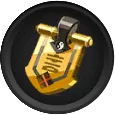
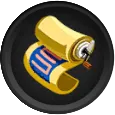
Add new strategies and Mobile gear. Add migration

diff --git a/src/lib/features/strategy/strategySlice.ts b/src/lib/features/strategy/strategySlice.ts
@@ -3,6 +3,7 @@ import type { PayloadAction } from '@reduxjs/toolkit';
 import { createSlice } from '@reduxjs/toolkit';
 
 interface CardState {
+    [CardTypes.mobile]: number;
     [CardTypes.ultimate]: number;
     [CardTypes.anomaly]: number;
     [CardTypes.dexterity]: number;
@@ -14,26 +15,37 @@ interface GearState {
     badges: boolean[];
 }
 
+interface StrategyData {
+    gear: GearState;
+    cards: CardState;
+}
+
 // gear and card state stored per strategy, in other words "save slots"
 export interface StrategyState {
     currentStrategy: number;
-    data: { gear: GearState; cards: CardState }[];
+    data: StrategyData[];
 }
 
-const initialState: StrategyState = {
-    currentStrategy: 1,
-    data: Array.from({ length: 9 }, () => ({
+export const getInitialStrategyState = () => {
+    return {
         gear: {
-            active: [false, false, false, false, false, false, false, false],
-            badges: [false, false, false, false, false, false, false, false],
+            active: Array.from({ length: 10 }, () => false),
+            badges: Array.from({ length: 10 }, () => false),
+            // badges: [false, false, false, false, false, false, false, false],
         },
         cards: {
+            [CardTypes.mobile]: 0,
             [CardTypes.ultimate]: 0,
             [CardTypes.anomaly]: 0,
             [CardTypes.dexterity]: 0,
             [CardTypes.adversity]: 0,
         },
-    })),
+    };
+};
+
+const initialState: StrategyState = {
+    currentStrategy: 1,
+    data: Array.from({ length: 12 }, getInitialStrategyState),
 };
 
 function getCurrentData(state: StrategyState) {
@@ -96,6 +108,7 @@ export const strategySlice = createSlice({
         selectActiveGear: (state) => getCurrentGear(state).active,
         selectGearBadges: (state) => getCurrentGear(state).badges,
 
+        [CardTypes.mobile]: (state) => getCurrentCards(state)[CardTypes.mobile],
         [CardTypes.ultimate]: (state) => getCurrentCards(state)[CardTypes.ultimate],
         [CardTypes.anomaly]: (state) => getCurrentCards(state)[CardTypes.anomaly],
         [CardTypes.dexterity]: (state) => getCurrentCards(state)[CardTypes.dexterity],

diff --git a/src/lib/migrations/index.ts b/src/lib/migrations/index.ts
@@ -1,0 +1,55 @@
+import { CardTypes } from '@/types/enums';
+import { type V0PersistedState, type V1PersistedState } from '@/types/stateVersions';
+import { createMigrate } from 'redux-persist';
+
+const getV1StrategyInitialState = () => {
+    return {
+        gear: {
+            active: Array.from({ length: 10 }, () => false),
+            badges: Array.from({ length: 10 }, () => false),
+        },
+        cards: {
+            [CardTypes.mobile]: 0,
+            [CardTypes.ultimate]: 0,
+            [CardTypes.anomaly]: 0,
+            [CardTypes.dexterity]: 0,
+            [CardTypes.adversity]: 0,
+        },
+    };
+};
+
+const migrations = {
+    1: (state: V0PersistedState) => {
+        try {
+            return {
+                ...state,
+                strategy: {
+                    currentStrategy: state.strategy.currentStrategy + 3,
+                    data: [
+                        ...Array.from({ length: 3 }, getV1StrategyInitialState),
+                        ...state.strategy.data.map(({ gear, cards }) => ({
+                            gear: {
+                                active: [false, false, ...gear.active],
+                                badges: [false, false, ...gear.badges],
+                            },
+                            cards: {
+                                [CardTypes.mobile]: 0,
+                                ...cards,
+                            },
+                        })),
+                    ],
+                },
+            } as V1PersistedState;
+        } catch (error) {
+            console.log('Error:', error);
+        }
+
+        return state;
+    },
+};
+
+//@ts-expect-error
+// MigrationManifest doesn't seem to consider that
+// aside from '_persist' there will be actual state fields with types
+// { _persist: { version: 0, rehydrated: true }, strategy: { /* state, not undefined */} };
+export const persistMigrate = createMigrate(migrations, { debug: true });

diff --git a/src/types/stateVersions.ts b/src/types/stateVersions.ts
@@ -1,0 +1,44 @@
+import { type PersistedState } from 'redux-persist';
+import { CardTypes } from './enums';
+
+interface V0StoreState {
+    currentStrategy: number;
+    data: {
+        gear: {
+            active: boolean[]; // 8 gears
+            badges: boolean[]; // 8 gears
+        };
+        cards: {
+            [CardTypes.ultimate]: number;
+            [CardTypes.anomaly]: number;
+            [CardTypes.dexterity]: number;
+            [CardTypes.adversity]: number;
+        };
+    }[]; // 9 strategies
+}
+
+export type V0PersistedState = {
+    strategy: V0StoreState;
+} & Exclude<PersistedState, undefined>;
+
+// three new strategies, two new [Mobile] gear
+interface V1StoreState {
+    currentStrategy: number;
+    data: {
+        gear: {
+            active: boolean[]; // 10 gears
+            badges: boolean[]; // 10 gears
+        };
+        cards: {
+            [CardTypes.mobile]: number;
+            [CardTypes.ultimate]: number;
+            [CardTypes.anomaly]: number;
+            [CardTypes.dexterity]: number;
+            [CardTypes.adversity]: number;
+        };
+    }[]; // 12 strategies
+}
+
+export type V1PersistedState = {
+    strategy: V1StoreState;
+} & Exclude<PersistedState, undefined>;

diff --git a/src/lib/store.ts b/src/lib/store.ts
@@ -2,6 +2,7 @@ import type { Action, ThunkAction } from '@reduxjs/toolkit';
 import { combineSlices, configureStore } from '@reduxjs/toolkit';
 import { FLUSH, PAUSE, PERSIST, persistReducer, PURGE, REGISTER, REHYDRATE } from 'redux-persist';
 import { strategySlice } from './features/strategy/strategySlice';
+import { persistMigrate } from './migrations';
 import storage from './safeStorage';
 
 const rootReducer = combineSlices(strategySlice);
@@ -10,6 +11,8 @@ export type RootState = ReturnType<typeof rootReducer>;
 export const persistConfig = {
     key: 'root',
     storage,
+    version: 1,
+    migrate: persistMigrate,
 };
 
 const persistedReducer = persistReducer(persistConfig, rootReducer);

diff --git a/src/components/card/CardGradient.tsx b/src/components/card/CardGradient.tsx
@@ -8,6 +8,7 @@ interface Props extends HTMLAttributes<HTMLDivElement> {
 }
 
 const gradients = {
+    [CardTypes.mobile]: 'bg-gradient-to-b from-[#2B3678] via-[#6272D5] to-[#2B3678] from-0% via-30%', // TODO
     [CardTypes.ultimate]: 'bg-gradient-to-b from-[#C66915] via-[#FFAD20] to-[#C66915] from-0% via-30%',
     [CardTypes.anomaly]: 'bg-gradient-to-b from-[#2F711F] via-[#58B241] to-[#2F711F] from-0% via-30%',
     [CardTypes.dexterity]: 'bg-gradient-to-b from-[#F14719] via-[#F9D203] to-[#F14719] from-0% via-30%',

diff --git a/src/components/strategy/StrategyProgress.tsx b/src/components/strategy/StrategyProgress.tsx
@@ -3,6 +3,9 @@ import { useAppDispatch, useAppSelector } from '@/lib/hooks';
 import Strategy from './Strategy';
 
 const strategyList: string[] = [
+    'Sneak Attack',
+    'Upper Hand',
+    'Speed Combo',
     'Resonium Passion',
     'Treasure Hunter',
     'Fully Armed',

diff --git a/src/types/enums.ts b/src/types/enums.ts
@@ -1,5 +1,6 @@
 // preserve order
 export enum CardTypes {
+    mobile = 'Mobile',
     ultimate = 'Ultimate',
     anomaly = 'Anomaly - Stun',
     dexterity = 'Dexterity',
